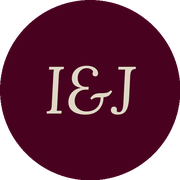
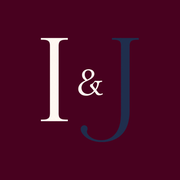
Add files via upload
V44

diff --git a/styles.css b/styles.css
@@ -51,10 +51,11 @@
   --color-mauve-on-dark: #b77d79; /* mauve text on wine */
 
   /* Sparing accent — sampled directly from the blue doll in holdingHands.jpg.
-     Used deliberately in only 3 spots (see comments at each): a dress-code
-     swatch, the religious ceremony icon, and a subtle photo-frame border —
-     never as a base/background color, to keep the site's warm palette
-     dominant. */
+     Used deliberately as an accent (never as a base/background color, to
+     keep the site's warm palette dominant): the religious ceremony icon,
+     photo-frame borders, the RSVP heart/music icons, and the "J" in the
+     monogram (monogram.png, favicon files — edited directly as images,
+     not driven by this token). */
   --color-navy: #1f2e4d;
 
   --font-display: 'Cormorant Garamond', Georgia, serif;
@@ -343,19 +344,15 @@ button {
   pointer-events: none;
 }
 
-.hero__eyebrow {
-  color: var(--color-mauve-on-dark);
-  text-transform: uppercase;
-  letter-spacing: 0.3em;
-  font-size: 0.75rem;
-  font-weight: 600;
-  margin-bottom: var(--space-md);
-}
-
 .hero__names {
-  font-family: var(--font-display);
-  font-style: italic;
-  font-weight: 600;
+  /* Deliberately a different font from --font-display (Cormorant, used
+     everywhere else) — Playfair Display Bold specifically for this one
+     highest-impact spot, per the couple's request for something bolder/
+     more dramatic just for their names. Upright, not italic — italic
+     read as more delicate, which is the opposite of what was asked for. */
+  font-family: 'Playfair Display', Georgia, serif;
+  font-style: normal;
+  font-weight: 700;
   font-size: clamp(2.75rem, 8vw, 5.5rem);
   color: var(--color-white);
   margin: 0 0 var(--space-sm);
@@ -363,6 +360,9 @@ button {
 
 .hero__ampersand {
   display: inline-block;
+  font-family: var(--font-display);
+  font-style: italic;
+  font-weight: 600;
   color: var(--color-terracotta);
   padding: 0 0.15em;
 }
@@ -372,12 +372,6 @@ button {
   letter-spacing: 0.06em;
   color: var(--color-cream);
   margin-bottom: var(--space-md);
-}
-
-.hero__venue {
-  font-size: 0.95rem;
-  color: var(--color-mauve-on-dark);
-  margin-bottom: var(--space-lg);
 }
 
 .countdown {
@@ -817,11 +811,11 @@ button {
 }
 
 .label-icon--heart {
-  fill: var(--color-berry);
+  fill: var(--color-navy);
 }
 
 .label-icon--music {
-  fill: var(--color-berry);
+  fill: var(--color-navy);
 }
 
 .field input[type='text'],
@@ -1112,17 +1106,22 @@ button {
 
   .nav-admin-link {
     display: inline-block;
+    background: var(--color-terracotta);
+    border: 1px solid rgba(255, 255, 255, 0.5);
+    border-radius: 999px;
     font-family: var(--font-body);
     color: var(--color-white);
     text-decoration: none;
-    font-size: 0.85rem;
+    font-size: 0.75rem;
     font-weight: 600;
     text-transform: uppercase;
-    letter-spacing: 0.08em;
+    letter-spacing: 0.06em;
+    padding: 0.4rem 1.1rem;
+    transition: background var(--transition-fast);
   }
 
   .nav-admin-link:hover {
-    color: var(--color-terracotta);
+    background: var(--color-berry);
   }
 
   .lang-toggle button {

diff --git a/index.html b/index.html
@@ -47,7 +47,7 @@
   <link rel="preconnect" href="https://fonts.googleapis.com" />
   <link rel="preconnect" href="https://fonts.gstatic.com" crossorigin />
   <link
-    href="https://fonts.googleapis.com/css2?family=Cormorant+Garamond:ital,wght@0,500;0,600;1,500;1,600&family=Jost:wght@400;500;600&display=swap"
+    href="https://fonts.googleapis.com/css2?family=Cormorant+Garamond:ital,wght@0,500;0,600;1,500;1,600&family=Jost:wght@400;500;600&family=Playfair+Display:wght@700&display=swap"
     rel="stylesheet"
   />
 
@@ -112,17 +112,12 @@
   <!-- ===================== Hero ===================== -->
   <section class="hero">
     <canvas class="hero__constellation" aria-hidden="true"></canvas>
-    <span class="hero__eyebrow" data-i18n="hero_eyebrow">Nos Casamos</span>
     <h1 class="hero__names">
       <span data-field="partner1">Ismeraí</span>
       <span class="hero__ampersand">&amp;</span>
       <span data-field="partner2">Jesús</span>
     </h1>
     <p class="hero__date" data-field="wedding-date-full">1 de mayo de 2027</p>
-    <p class="hero__venue">
-      <span data-field="venue-name">Jardín</span> ·
-      <span data-field="venue-address">Cd. Juárez, Chihuahua</span>
-    </p>
 
     <div class="countdown" aria-label="Countdown to the wedding">
       <div class="countdown__unit">

diff --git a/i18n.js b/i18n.js
@@ -24,7 +24,6 @@ const DICTIONARY = {
     nav_gifts: 'Regalos',
     nav_rsvp: 'Asistencia',
 
-    hero_eyebrow: 'Nos Casamos',
     hero_cta: 'Confirmar Asistencia',
 
     countdown_days: 'Días',
@@ -145,7 +144,6 @@ const DICTIONARY = {
     nav_gifts: 'Gifts',
     nav_rsvp: 'RSVP',
 
-    hero_eyebrow: "We're Getting Married",
     hero_cta: 'RSVP',
 
     countdown_days: 'Days',
